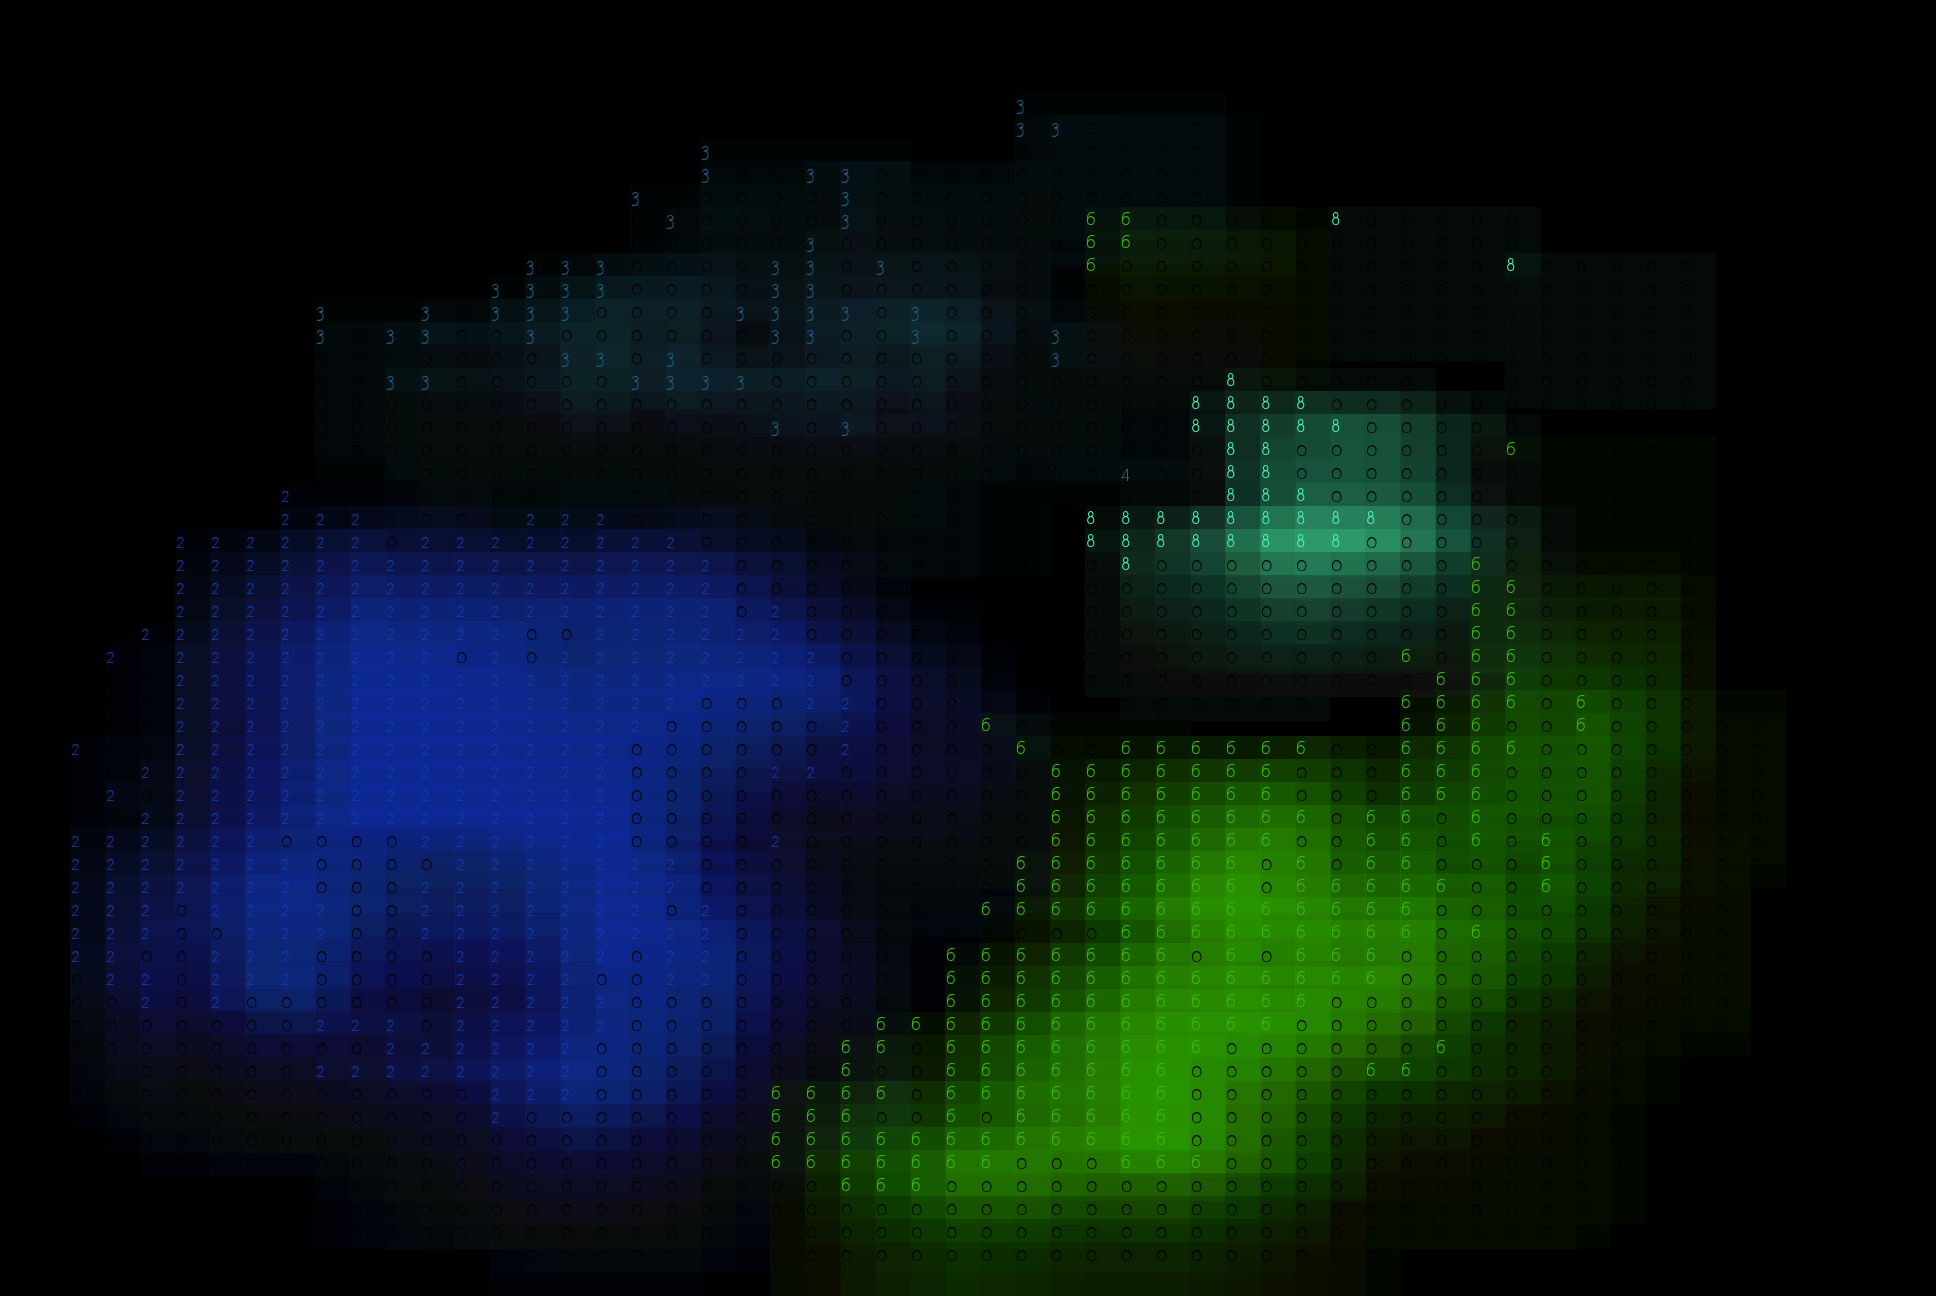
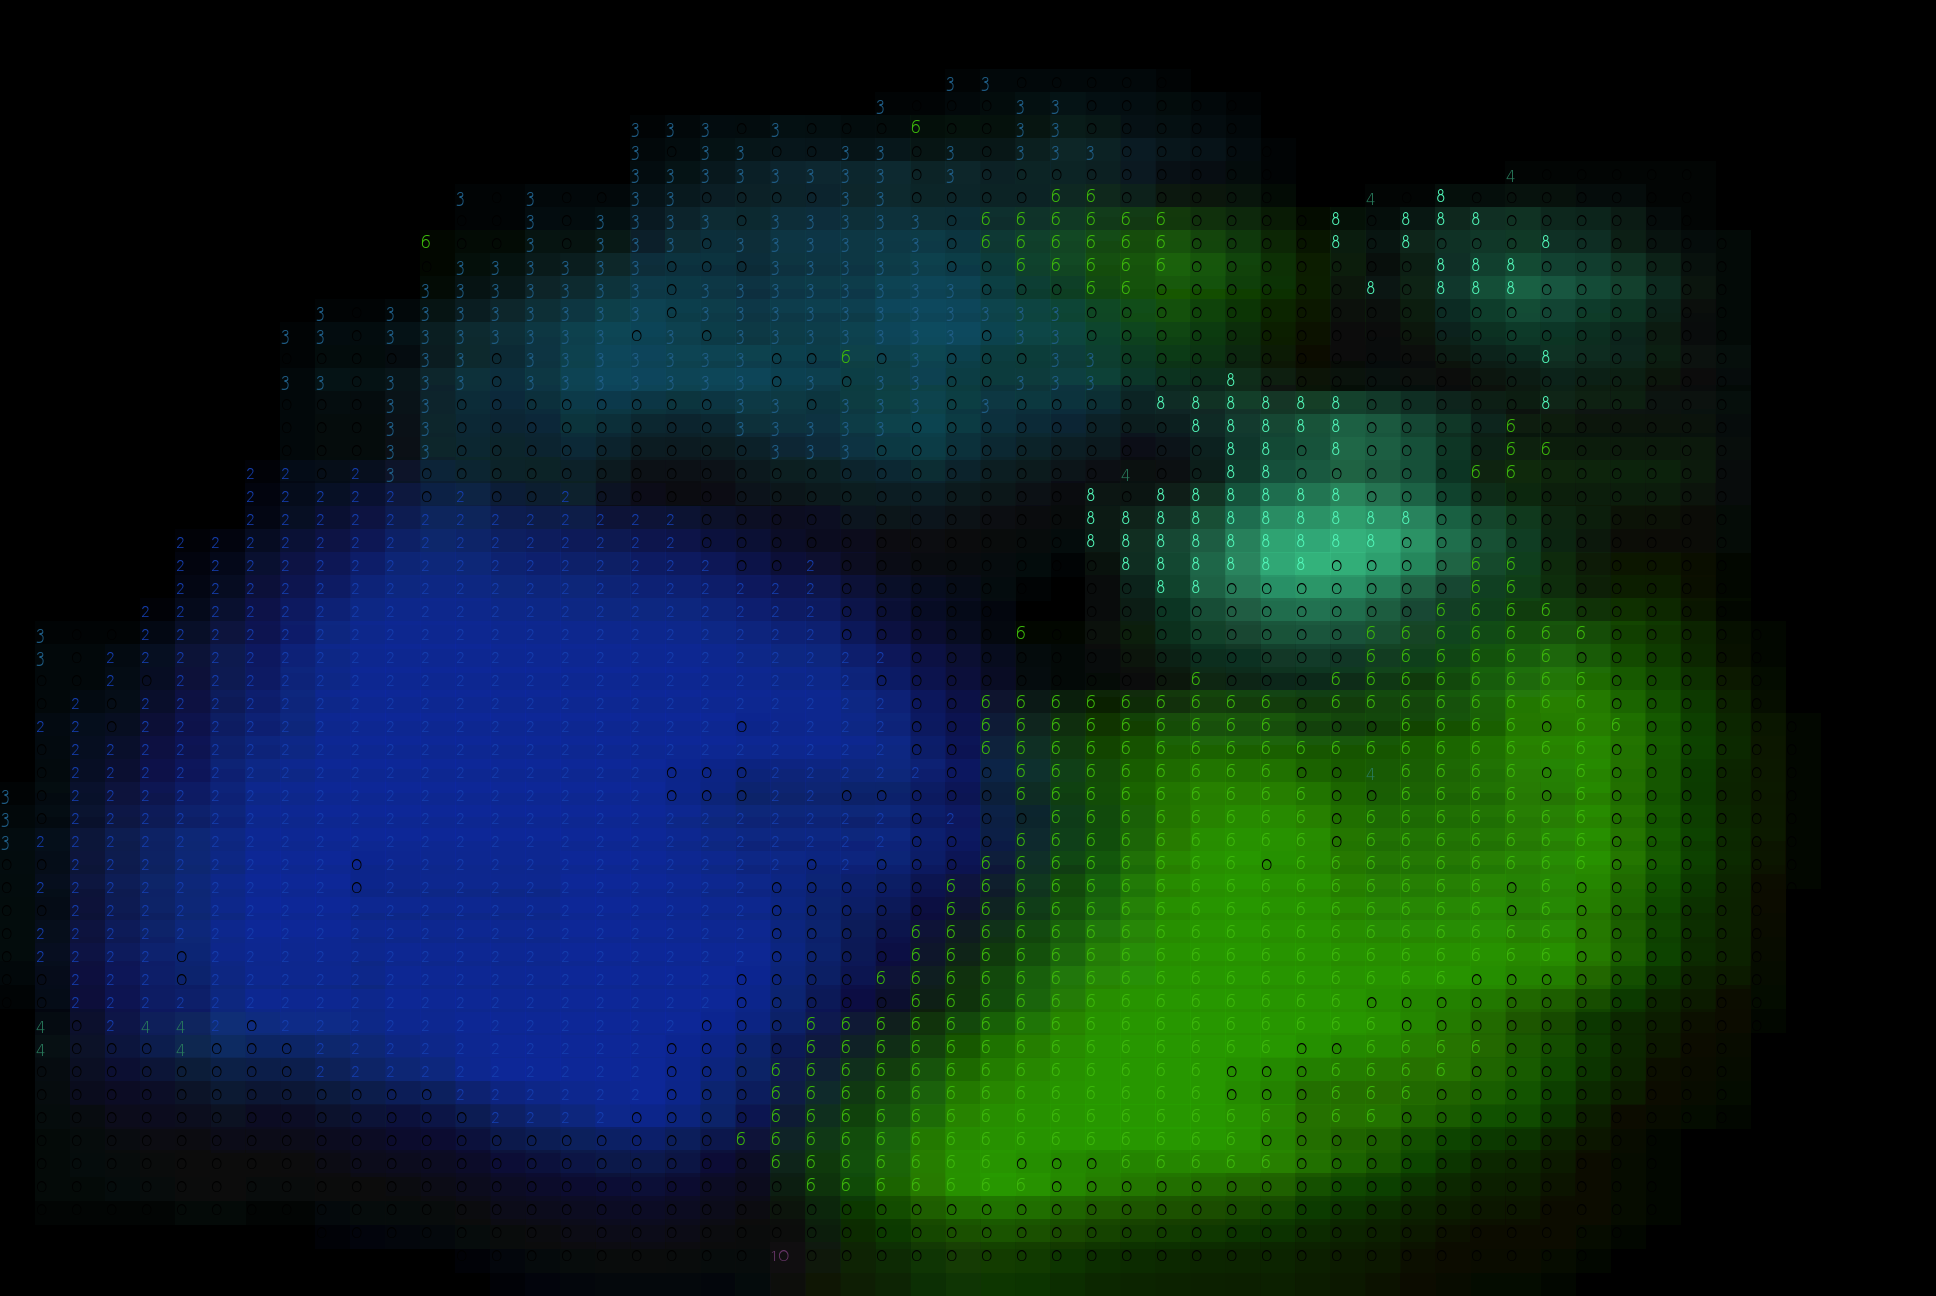
area threshold option

diff --git a/classify.py b/classify.py
@@ -8,6 +8,7 @@ import core.model
 import core.roi_management
 import utils.colors
 import utils.classes
+import utils.set_operations
 
 
 utils.classes.load_classes()
@@ -59,7 +60,7 @@ def testImage():
         for x_ in range(len(onlyres[y_])):
 
             clase = np.argmax(onlyres[y_][x_])
-            if onlyres[y_][x_][clase] < 0.80:
+            if onlyres[y_][x_][clase] < par_config.backgroundThreshold:
                 clase = 0
             color = colors[clase]
 
@@ -86,7 +87,9 @@ def testImage():
 
     core.roi_management.joinROIS(class_scores)
     rect_pos = class_scores
-
+    for x in rect_pos:
+        if abs(utils.set_operations.area(x)) < 400000:
+            rect_pos.remove(x)
 
     dri = ImageDraw.Draw(ime , 'RGBA')
     if par_config.compare_RoIs == True:

diff --git a/par_config.py b/par_config.py
@@ -21,6 +21,8 @@ test_image_name = "dsc_1703"
 images_extension = ".jpg"
 STRIDES = 1
 
+backgroundThreshold = 0.60
+
 pretrained_weights_file =  weights_folder+"image_500.h5"
 
 joinRoIs_considered_coverage = -0.05
